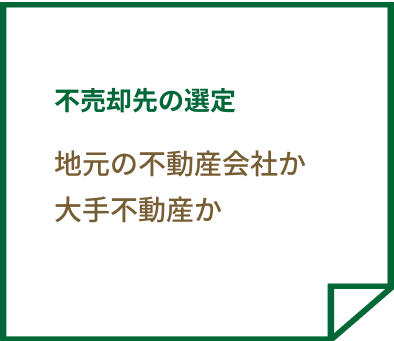
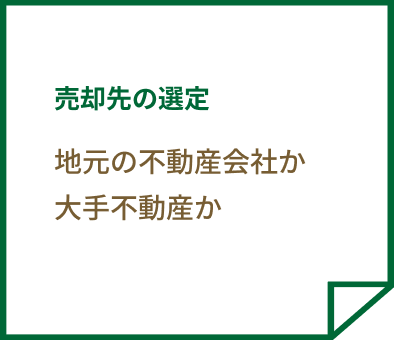
2024/10/21

diff --git a/src/index.html b/src/index.html
@@ -616,7 +616,7 @@
                                     <h3 class="choice__heading">売却エリアでの<span class="choice__heading-span">実績は豊富</span>か</h3>
                                     <div class="choice__sentence">
                                         <p class="choice__text">不動産会社を選ぶ際には、候補の会社の依頼したい地域での実績を確認することが重要です。なぜなら、地域の情報に精通している会社の方が適切な売却価格を導き出せるためです。</p>
-                                        <p class="choice__text">不動産売却では、適切な価格で売却できなければ、売れ残ってしまう可能性が高まります。創業年数やエリアでの売却事例を確認することで、その不動産会社が地域に精通し、信頼できる判断ができます。必ず事前に確認しておきましょう。</p>
+                                        <p class="choice__text">不動産売却では、適切な価格で売却できなければ、売れ残ってしまう可能性が高まります。創業年数やエリアでの売却事例を確認することで、その不動産会社が地域に精通し、信頼できる会社か判断ができます。必ず事前に確認しておきましょう。</p>
                                     </div>
                                 </div>
                                 <figure class="choice__img">
@@ -632,7 +632,7 @@
                                 <div class="choice__wrapper">
                                     <h3 class="choice__heading choice__heading--margin"><span class="choice__heading-span">口コミ・評判</span>がいいか</h3>
                                     <div class="choice__sentence choice__sentence--reverse">
-                                        <p class="choice__text">不動産会社の口コミや評価を確認することは、信頼できる業者を選ぶために重要です。実際の利用者の声を参考にすることで、サービスの質や対応、トラブルの立場を把握し、安心して取引を進めることができます。</p>
+                                        <p class="choice__text">不動産会社の口コミや評価を確認することは、信頼できる業者を選ぶために重要です。実際の利用者の声を参考にすることで、サービスの質や対応力の高さが明確になり、安心して取引を進めることができます。</p>
                                         <p class="choice__text">複数の口コミを確認した上で、依頼する不動産会社を決めるようにしましょう。</p>
                                     </div>
                                 </div>
@@ -684,7 +684,7 @@
                     </h2>
 
                     <p class="guidance__subtitle">
-                        得不動産売却は頻繁に経験することではありません。<br class="u-desktop">
+                        不動産売却は頻繁に経験することではありません。<br class="u-desktop">
                         そのため、実際の流れや売却の方法がわからないという方も少なくないでしょう。<br class="u-desktop">
                         ここからは、不動産売却の手引きを紹介していきます。
                     </p>

diff --git a/src/sass/module/_trust.scss b/src/sass/module/_trust.scss
@@ -157,7 +157,7 @@
 
 .trust__remarks{
     margin-top: rem(30.37);
-    color: #222222;
+    color: #222222; 
     font-size: rem(12);
     font-weight: $medium;
     line-height: calc(20/12);
